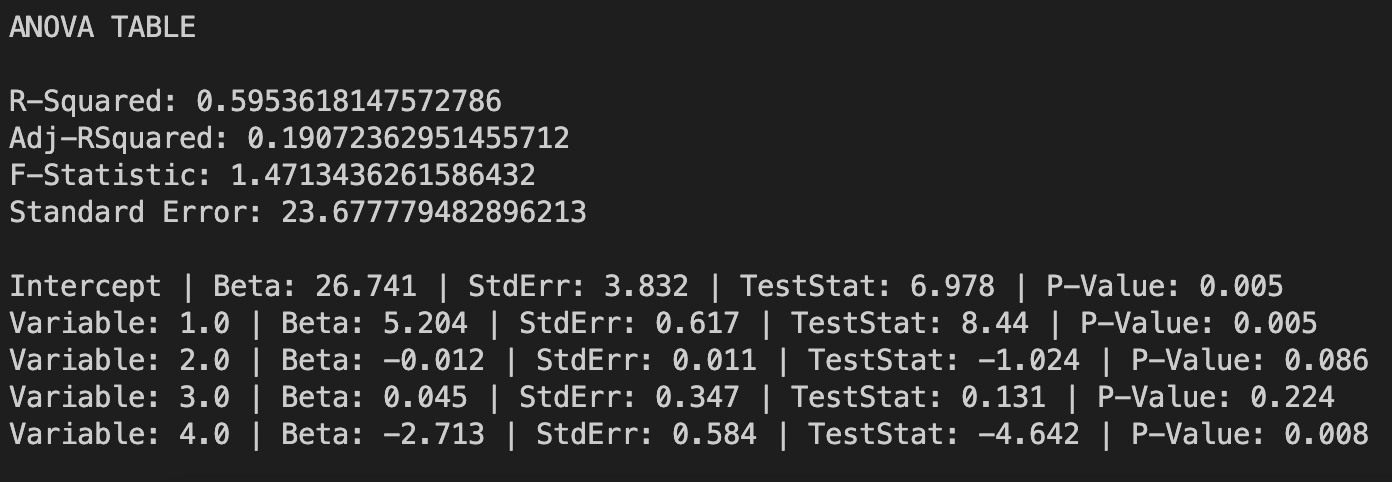
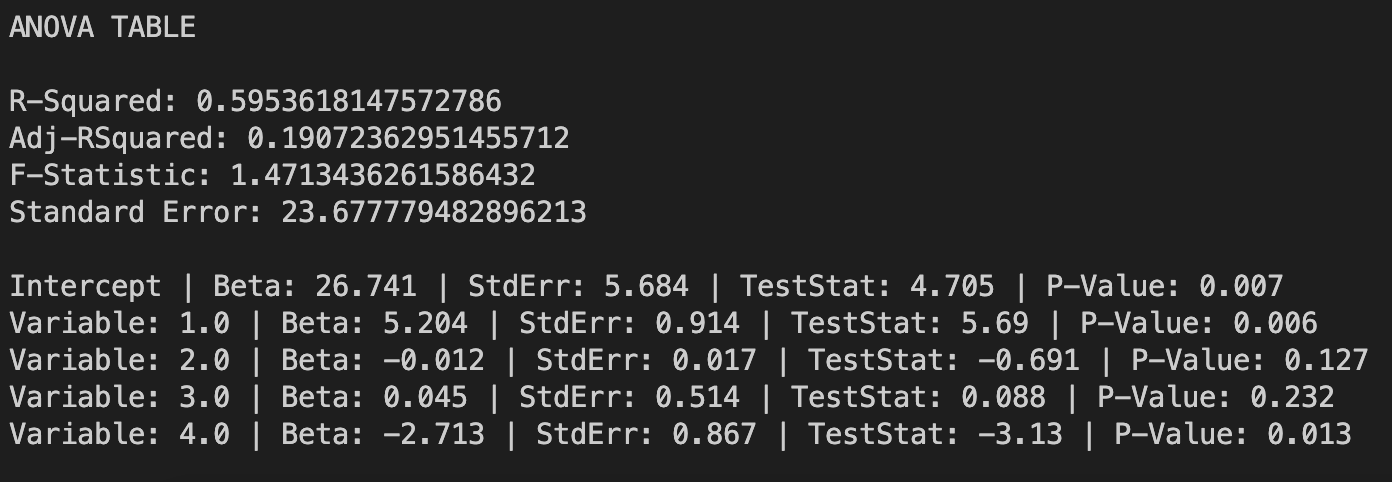
updated degrees of freedom

diff --git a/src/StatPack.java b/src/StatPack.java
@@ -77,7 +77,7 @@ public class StatPack {
         double[][] mtx = np.InverseMatrix(np.MultiplyMatrix(np.Transpose(X), X));
         double[][] top = np.Ax(factor, mtx);
         double[][] sd = np.ExponentMatrix(np.Diag(top), 0.5);
-        double[] stderr = np.VArray(np.Scalar(sd, X.length));
+        double[] stderr = np.VArray(np.Scalar(sd, n - m - 1));
         double[] tscore = new double[beta.length];
         double[] pvalue = new double[beta.length];
         for(int i = 0; i < beta.length; i++){
